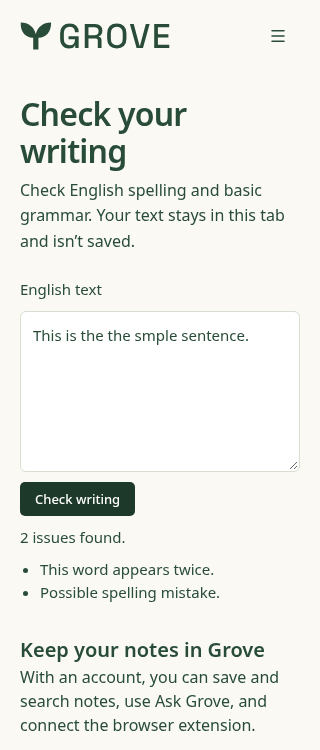
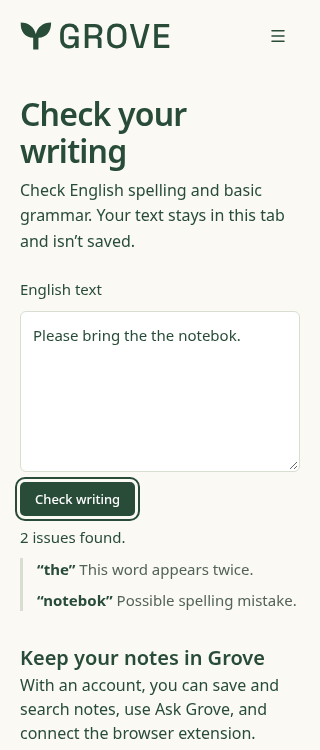
fix(website): identify the text in guest writing suggestions (#265)

diff --git a/packages/website/tests/guest-writing-excerpts.spec.ts b/packages/website/tests/guest-writing-excerpts.spec.ts
@@ -1,0 +1,47 @@
+import { expect, test } from "./telemetry-fixtures";
+
+for (const width of [320, 390, 1440]) {
+  test(`guest suggestion excerpts support keyboard review at ${width}px`, async ({
+    page,
+  }, info) => {
+    await page.setViewportSize({
+      width,
+      height: width === 320 ? 750 : width === 390 ? 844 : 900,
+    });
+    await page.goto("/writing");
+    const input = page.getByRole("textbox", { name: "English text" });
+    await input.fill("Please bring the the notebok.");
+    await input.press("Tab");
+    const submit = page.getByRole("button", { name: "Check writing" });
+    await expect(submit).toBeFocused();
+    await page.keyboard.press("Enter");
+    const issues = page
+      .getByRole("list", { name: "Writing suggestions" })
+      .getByRole("listitem");
+    await expect(issues).toHaveText([
+      /“the”\s+This word appears twice\./,
+      /“notebok”\s+Possible spelling mistake\./,
+    ]);
+    await expect(submit).toBeFocused();
+    await page.screenshot({ path: info.outputPath(`excerpts-${width}.png`) });
+    await page.keyboard.press("Shift+Tab");
+    await expect(input).toBeFocused();
+    const long = "w".repeat(46);
+    await input.fill(`Hello,world. Read  &<note> and ${long}.`);
+    await expect(issues).toHaveCount(0);
+    await submit.click();
+    await expect(
+      issues.filter({ hasText: "Missing space before “world”" }),
+    ).toContainText("Check spacing");
+    await expect(
+      issues.filter({ hasText: "2 spaces before “&<note>”" }),
+    ).toContainText("Check spacing");
+    await expect(issues.locator("note")).toHaveCount(0);
+    const longIssue = issues.filter({ hasText: /w+…/ });
+    await expect(longIssue).toContainText("Possible spelling mistake.");
+    await expect(longIssue).not.toContainText(long);
+    expect(
+      await page.evaluate(() => document.documentElement.scrollWidth),
+    ).toBeLessThanOrEqual(width);
+  });
+}

diff --git a/packages/website/src/components/guest-writing-check.tsx b/packages/website/src/components/guest-writing-check.tsx
@@ -64,7 +64,8 @@ export function GuestWritingCheck() {
       <button
         type="submit"
         className="button-primary"
-        disabled={busy || !text.trim()}
+        disabled={!text.trim()}
+        aria-disabled={busy || undefined}
       >
         {busy ? "Checking…" : "Check writing"}
       </button>
@@ -82,10 +83,32 @@ export function GuestWritingCheck() {
       {!!result?.issues.length && (
         <ul aria-label="Writing suggestions">
           {result.issues.map((issue) => (
-            <li key={issue.id}>{englishMessages[issue.message]}</li>
+            <li key={issue.id}>
+              <strong>{issueExcerpt(issue, text)}</strong>{" "}
+              {englishMessages[issue.message]}
+            </li>
           ))}
         </ul>
       )}
     </form>
   );
+}
+
+function quoteExcerpt(text: string) {
+  const characters = Array.from(text.replace(/\s+/gu, " "));
+  return `“${characters.length > 36 ? characters.slice(0, 36).join("") + "…" : characters.join("")}”`;
+}
+
+function issueExcerpt(issue: WritingResult["issues"][number], text: string) {
+  if (issue.original.trim()) return quoteExcerpt(issue.original);
+  // Spacing checks cover either a run of spaces or a zero-length insertion.
+  const spaces = issue.original.length;
+  const gap =
+    spaces === 0
+      ? "Missing space"
+      : spaces === 1
+        ? "Space"
+        : `${spaces} spaces`;
+  const next = text.slice(issue.to).match(/^[\p{L}\p{M}]+|^\S+/u)?.[0];
+  return next ? `${gap} before ${quoteExcerpt(next)}` : gap;
 }

diff --git a/packages/website/src/app/composition.css b/packages/website/src/app/composition.css
@@ -270,8 +270,20 @@
   background: #fff;
 }
 .guest-writing-form button { justify-self: start; }
-.guest-writing-form button:disabled { opacity: 0.6; }
-.guest-writing-form > ul { list-style: disc; padding-inline-start: 20px; }
+.guest-writing-form button:is(:disabled, [aria-disabled="true"]) { opacity: 0.6; }
+.guest-writing-form :is(button, textarea):focus-visible {
+  outline: 2px solid var(--brand-accent);
+  outline-offset: 3px;
+}
+.guest-writing-form > ul {
+  display: grid;
+  gap: 8px;
+  border-inline-start: 3px solid var(--brand-line);
+  padding-inline-start: 14px;
+  color: var(--brand-muted);
+  overflow-wrap: anywhere;
+}
+.guest-writing-form li strong { color: var(--brand-ink); }
 .guest-writing-account { margin-top: 32px; }
 .guest-writing-account h2 { font-size: 20px; font-weight: 600; }
 .guest-writing-account .home-resource-links { display: flex; flex-wrap: wrap; gap: 8px 20px; margin-top: 10px; }

diff --git a/packages/website/tests/website.spec.ts b/packages/website/tests/website.spec.ts
@@ -28,7 +28,10 @@ test("a guest can check writing without sending text or opening an account", asy
     page
       .getByRole("list", { name: "Writing suggestions" })
       .getByRole("listitem"),
-  ).toHaveText(["This word appears twice.", "Possible spelling mistake."]);
+  ).toHaveText([
+    /“the”\s+This word appears twice\./,
+    /“smple”\s+Possible spelling mistake\./,
+  ]);
   await page.screenshot({
     path: info.outputPath("guest-writing-messages.png"),
   });

diff --git a/documentation/design/screenshots/webapp-writing/README.md b/documentation/design/screenshots/webapp-writing/README.md
@@ -2,12 +2,15 @@
 
 ## Guest suggestions
 
-![Guest results explain a repeated word and a possible spelling mistake](guest-writing-messages-320.png)
+![The guest checker quotes “the” and “notebok” beside their explanations](guest-writing-messages-320.png)
 
-Local Next.js production build of `fix/guest-writing-messages`, Playwright Chromium,
-320 × 750. `website.spec.ts` enters synthetic text on `/writing` and checks both
-messages against the rendered list. This capture uses the bundled English dictionary;
-it does not qualify a live deployment or a physical phone.
+Local Next.js production build of `fix/guest-writing-excerpts`, Playwright Chromium.
+`guest-writing-excerpts.spec.ts` submits “Please bring the the notebok.” using
+the keyboard and checks each word with its explanation. Captures: 320 × 750
+(above), [390 × 844](guest-writing-messages-390.png), and
+[1440 × 900](guest-writing-messages-1440.png). The test also exercises missing
+and extra spaces, literal angle brackets, and a long word. These checks use
+the bundled English dictionary, not a live site or a physical device.
 
 ## Note editor
 

diff --git a/documentation/webapp-writing.md b/documentation/webapp-writing.md
@@ -55,8 +55,9 @@ immediately and stays on this device:
 ## Privacy and limits
 
 - Guests can use the [web writing checker](https://usegrove.cloud/writing)
-  without an account. **Check writing** lists a short English explanation for
-  each issue, such as “This word appears twice.” Text is checked locally and
+  without an account. **Check writing** pairs each explanation with the word or
+  phrase it refers to. For a spacing issue, it names the gap and shows the
+  text that follows it. Text is checked locally and
   is not saved; note storage, account preferences and Ask Grove still require
   sign-in.
 
